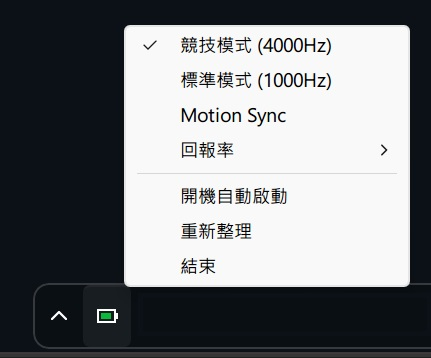
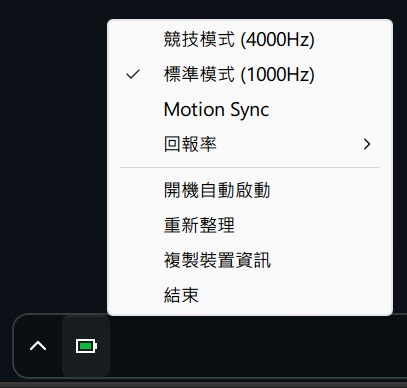
Update menu screenshots with Copy device info

diff --git a/README.zh-TW.md b/README.zh-TW.md
@@ -30,7 +30,7 @@
   - 複製裝置資訊：回報 MousePulse 還不認得的滑鼠時使用
   - 結束
 
-  <img src="docs/screenshots/menu-chinese.jpg" alt="右鍵選單：競技模式 (4000Hz)、標準模式 (1000Hz)、Motion Sync、回報率、開機自動啟動、重新整理、結束">
+  <img src="docs/screenshots/menu-chinese.jpg" alt="右鍵選單：競技模式 (4000Hz)、標準模式 (1000Hz)、Motion Sync、回報率、開機自動啟動、重新整理、複製裝置資訊、結束">
 
 - **低電量通知**：電量降到 10% 時通知一次，門檻和官方驅動顯示「請立即充電」的條件相同。
 - 透過接收器或充電線連接都可以使用。兩者同時接上時會使用充電線連接，因為這時接收器和滑鼠的連線已經中斷。

diff --git a/README.md b/README.md
@@ -34,7 +34,7 @@ open a browser just to check the battery.
   - Copy device info, for reporting a mouse MousePulse doesn't recognise yet
   - Exit
 
-  <img src="docs/screenshots/menu-english.jpg" alt="Tray menu: Competitive (4000Hz) and Standard (1000Hz) mode, Motion Sync, Report rate, Start with Windows, Refresh, Exit">
+  <img src="docs/screenshots/menu-english.jpg" alt="Tray menu: Competitive (4000Hz) and Standard (1000Hz) mode, Motion Sync, Report rate, Start with Windows, Refresh, Copy device info, Exit">
 
 - **Low-battery notification**, once per discharge, at 10% (the same "charge now"
   threshold as the official driver).
